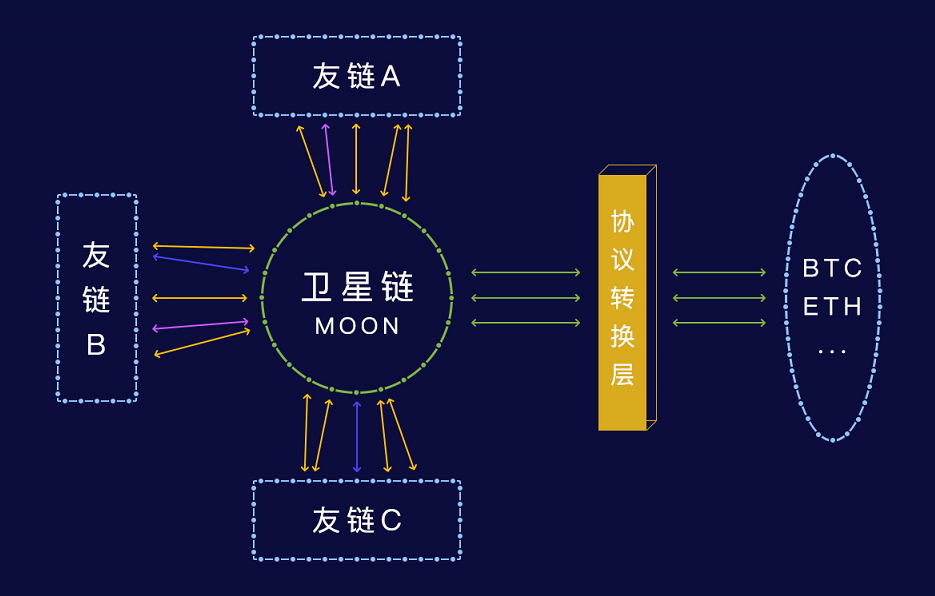
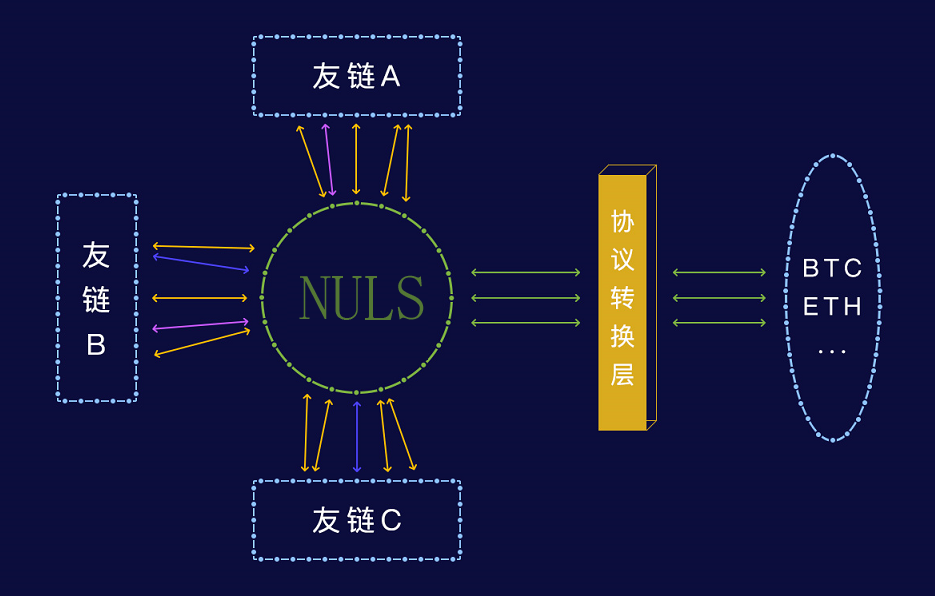
update

Changed region(s): [[0.3102, 0.453, 0.4652, 0.5738]]

diff --git a/design-en/a.Overall design v1.3.md b/design-en/a.Overall design v1.3.md
@@ -11,76 +11,64 @@ One: rich NULS modules
 The new architecture allows NULS modules to run independently, combining a basic blockchain operation framework through a standard base module interface. The NULS module does not limit any developers, supports all programming languages that can provide http services, and strives to get the most out of every blockchain technician without setting any threshold. On this basis, more possibilities are extended.
 
 Second: building a technical community for NULS
-NULS is a pure blockchain project that integrates the idea of blockchain to create a blockchain community of open, freedom, and evolution. Therefore, the vitality of NULS depends on the degree of development of the community, especially the degree of construction of the technical community. Therefore, NULS takes advantage of the new architecture design, simultaneously attaches great importance to and develops the technology community, allowing the technical community and the core development team to “distribute” from the beginning; to attract all regions of the world with open technology and ideal forward-looking. Added in the development of blockchain.
+NULS is a pure blockchain project that combines the idea of blockchain to create an open, free and evolutionary blockchain community. Therefore, the vitality of NULS depends on the degree of development of the community, especially the degree of construction of the technical community. Therefore, NULS takes advantage of the new architecture design, simultaneously attaches great importance to and develops the technology community, allowing the technical community and the core development team to “distribute” from the beginning; to attract all regions of the world with open technology and ideal forward-looking. Added in the development of blockchain.
 
 Based on the above, the NULS core team initiated the design of the new version of the architecture, and hoped that the partners in the community actively participated in the construction of NULS, contributing to the development of the blockchain industry, and contributing a bright future.
 
 ## 2、Design goals
 
 - Define cross-chain standards to enable communication between different blockchains.
-- Build a "satellite chain" to achieve asset flow between different blockchains.
-- Using the microservices architecture, each module is a separate process service, without limiting the development language
+- Upgrade the NULS main network function to achieve asset flow between different blockchains.
+- Using the microservices architecture, each module is a service run by a separate process and does not limit the development language.
 
 Description:
 
 - Why do you want to cross the chain?
-  The blockchain has been introduced by many media as the next generation of the Internet. This argument is very reasonable, but the distance is still very far away, there are a lot of ways to go, and the blockchain has to become a real Internet, and there is also a Passing the pass is the passing of value. At present, there are two solutions: 1. A blockchain completes all applications and user value transfer. 2. A general value transfer protocol between blockchains. The first option seems simple, but it is very limited and difficult to implement. NULS believes that Option 2 is a better solution in the current environment, so in this direction, cross-chain agreements and related supporting facilities are the first step in this direction.
+  The blockchain has been introduced by many media as the next generation of the Internet. This argument is very reasonable, but the distance is still very far away, there is a long way to go, and the blockchain has to become a real Internet, and there is also a Passing the pass is the passing of value. At present, there are two solutions: 1. A blockchain completes all applications and user value transfer. 2. A general value transfer protocol between blockchains. The first option seems simple, but it is very limited and difficult to implement. NULS believes that Option 2 is a better solution in the current environment, so in this direction, cross-chain agreements and related supporting facilities are the first step in this direction.
 - From modular to microservices
   Nuls is a modular underlying infrastructure. The blockchain programs currently running are based on the Java language. Modularization only implements the modularization of the coding layer. Our goal is a more flexible, operational state module. The underlying facilities. It should be able to support anyone who wants to make a technical contribution, so you should not set the language threshold. It should be easier to extend, modify, and replace. Each of its modules should be simple, static, and should not be blocked by the blockchain. The complexity of the overall program impact. So we proposed the micro-service architecture idea, the module is more independent, the module business is more simple, the module supports multi-language development, the module is easier to expand, the module supports distributed deployment, and the module is easier to plug and unplug...
 
-risk:
-
-The blockchain client has higher performance requirements. Each module in the new architecture is an independent process. The process communicates through the http protocol. In the case of no initial network setup, only some simple performance tests can be used. Estimating performance metrics is likely to fail to meet the requirements of a high-performance blockchain application. Solution: Set up a simple network in a short time to test the performance more accurately.
-
-## 3、Overall Description
-
-### 3.1Overall architecture
+## 3、Ecological architecture
 
 ![design](./image/bridge.png)
 
 Description:
 
-An independent satellite chain that is responsible for docking with all chains. Implement inter-chain communication in an open manner
+	Upgrade the NULS main network and add functions to the main network to connect with all the links. Implement inter-chain communication in an open manner
 
-Based on the blockchain implemented by the NULS module warehouse (blockchain in the ecosystem), a cross-chain module can be added by means of module selection, so that the ground layer can communicate with the satellite chain.
+	Based on the blockchain implemented by the NULS module warehouse (blockchain in the ecosystem), a cross-chain module can be added by means of module selection, so that the bottom layer can communicate with NULS.
 
-For the Ethereum and Bitcoin, the public chain that is not affected by NULS needs to implement the conversion of the protocol through a special mechanism, and adapt the public chain protocol and the NULS cross-chain protocol to achieve the purpose of unified protocol communication.
+	For the Ethereum and Bitcoin, the public chain that is not affected by NULS needs to implement the conversion of the protocol through a special mechanism, and adapt the public chain protocol and the NULS cross-chain protocol to achieve the purpose of unified protocol communication.
 
-All blockchains only communicate with the satellite chain, the verification of the transaction is carried out by the satellite chain, and the parallel chains trust the verification results of the satellite chain.
+	All blockchains only communicate with the NULS main network. The verification of the transaction is performed by the NULS main network, and each parallel chain trusts the verification result of the NULS main network.
 
-- Inter-chain connection
-  Each node on the blockchain runs a cross-chain module, each node connecting some of the nodes on the satellite chain. The random algorithm is used to determine which nodes are connected, to ensure the dispersion of node connections as much as possible, and to ensure the security of the network.
-- Multiple algorithm adaptation
-  The satellite chain supports most of the mathematical algorithms on the market, including digest algorithms, symmetric encryption, asymmetric encryption, etc., which can be used through a unified interface provided by the algorithm library.
-- Community governance
-  The satellite chain will have built-in community governance mechanisms, including system operating parameter modifications, protocol upgrades, malicious chain processing, community funding, and more.
+	The assets in each blockchain can be circulated to any chain in the NULS ecosystem to accept the transfer of the external chain assets. It is also possible to achieve business interoperability based on any mutual agreement between any two chains at a small cost.
 
 
-## 4、 Satellite chain design
+## 4、System design
 
-###  4.1 Satellite chain architecture
+###  4.1 Architecture diagram
 
  ![layer](./image/bridge-layer.png)
 
-* The satellite chain uses the POC consensus mechanism to combine the Byzantine fault-tolerant mechanism to confirm and package cross-chain transactions, and to achieve decentralization and performance and security.
-* Each node on the satellite chain connects multiple nodes in multiple blockchains. Because the protocol is a uniformly defined NULS cross-chain protocol, it is possible to connect multiple nodes on different blockchains simultaneously.
-* The satellite chain provides a chain management mechanism to manage all peer-to-peer blockchains registered in the satellite chain. The contents of the registration include chain information, asset information, cross-chain mortgages, etc.
+* NULS main network uses POC consensus mechanism, combined with Byzantine fault tolerance mechanism to realize the confirmation and packaging of cross-chain transactions, to achieve decentralization and performance and security.
+* Each node on the NULS main network connects multiple nodes in multiple blockchains. Because the protocol is a uniformly defined NULS cross-chain protocol, it is possible to connect multiple nodes on different blockchains simultaneously.
+* The NULS main network provides a chain management mechanism to manage all peer blockchains registered on the NULS main network. The contents of the registration include chain information, asset information, cross-chain margin, etc.
 * When an asset of another chain is received on a blockchain, the corresponding asset needs to be generated in the chain. Tokens on different blockchains are stored in other chains in the form of assets.
-* A breakdown of the assets transferred to another chain in a blockchain will be stored in the satellite chain. When the asset is transferred out of the blockchain, it will be verified, and illegal assets will not be allowed to be generated from the blockchain. Malicious blockchains are handled through community mechanisms such as suspending cross-chains, suspending cross-chains, forfeiting margins, etc.
-* The Api user manual will be available in the satellite chain. Any developer can develop their own wallet, browser, light wallet and other tools according to the manual.
-* In order to reduce the business complexity of the satellite chain, smart contracts will not be operated in the satellite chain
-* Provision of protocol provisioning in the satellite chain, which can be used for DAPP development and cross-chain protocol optimization
+* The details of a blockchain transferred to other chain assets will be stored in the NULS main network. When the asset is transferred out of this blockchain, it will be verified, and illegal assets will not be allowed to be generated from the blockchain. Malicious blockchains are handled through community mechanisms such as suspending cross-chains, suspending cross-chains, forfeiting margins, etc.
+* NULS main network will provide Api manual, any developer can develop their own wallet, browser, light wallet and other tools according to the manual.
+* Provides protocol extensions in the NULS main network, which can be used to develop DAPP and optimize cross-chain protocols.
 
-### 4.2 How the satellite chain run
+### 4.2 The operation of the new version of the modular program
 
 ![](./image/modules.png)
 
-* Satellite chain architecture in a modular manner
+* NULS main network is structured in a modular way
 * Each module is a microservice that can run independently
-* Communication between microservices directly via http protocol
+* Microservices communicate directly via api
 * Module does not limit development language
-* Provide microkernel module responsible for service management, configuration management and data sharing
-* The module of the satellite chain will be shared with the NULS main network to a certain extent, so the module of the satellite chain will be added to the NULS module warehouse just like the NULS module for direct use by applications such as "chain factory".
+* Provide microkernel module responsible for module management, configuration management and version management functions
+* NULS modules will be added to the NULS module repository for direct use by applications such as "chain factories"
 * Each module supports extensions at the same time as it is used, ie if the modules in the module repository can only meet some of the business requirements, the module can be extended to avoid the workload of redevelopment
 
 ### 4.3 Bottom support for the chain factory
@@ -96,29 +84,29 @@ The chain factory is built on the NULS module, so when designing the NULS module
 1. The address a in the friend chain A initiates the transaction tx_a, and transfers the aCoin to the b address of the B chain.
 
 - The format of the b address is the address in the nuls format starting with ChainId_B. When the asset is transferred to the address, the address is not allowed to initiate a transaction on the A chain, ie the address of the other chain cannot initiate a transaction in the chain.
-- Generate a transaction for the satellite chain tx_a_trans based on the cross-chain protocol and sign the cross-chain transaction with the private key of a.
+- Generate a transaction tx_a_trans under the NULS cross-chain protocol based on the cross-chain protocol, and sign the cross-chain transaction with a private key of a.
 
-2. tx_a is packed in the A chain, and after the n block is confirmed, the satellite chain is sent by the cross-chain module (independent of the basic module other than the A-chain function).
+2. tx_a is packed in the A chain, and after the n block is confirmed, the NULS main network is sent by the cross-chain module (independent of the basic module except the A-chain function).
 
-3. The cross-chain module broadcasts the transaction to the connected satellite chain node (broadcast mode: first broadcast hash, wait for the other party to obtain a complete transaction)
+3. The cross-chain module broadcasts the transaction to the connected NULS main network node (broadcast mode: first broadcast hash, wait for the other party to obtain a complete transaction)
 
-4. After receiving the transaction (tx_a_trans), the satellite chain node (transaction management module) first performs basic verification (format, required field, signature, chain balance, etc.), and then asks whether the connected A-chain node has a The tx_a_hash transaction is confirmed by n blocks and converted to a satellite chain format transaction, the transaction digest is tx_a_trans_hash.
+4. After receiving the transaction (tx_a_trans), the NULS main network node (transaction management module) first performs basic verification (format, required fields, signature, chain balance, etc.), and then asks whether the connected A-chain node has A tx_a_hash transaction is confirmed n blocks, and after conversion to NULS main network format transaction, the transaction summary is tx_a_trans_hash.
 
-2. The result of the aggregate inquiry of the satellite chain node. If more than 51% of the nodes confirm the transaction, the node approves the transaction.
+5. The result of the NULS main network node summary inquiry, if more than 51% of the nodes confirm the transaction, the node approves the transaction.
 
 - The normal node asks for any node, the consensus node queries all nodes, and the ordinary node forwards the transaction if any 3 nodes confirm it, otherwise it discards. If the consensus node gets more than 51% node confirmation, it will sign tx_a_trans_hash and broadcast the hash and signature data to the network.
 
-6. The satellite chain consensus node summarizes the cross-chain transaction signatures in the chain. When the signer of a transaction exceeds 80% of the total number of consensus nodes, the transaction is considered to be packaged into the block.
+6. The NULS main network consensus node summarizes the cross-chain transaction signatures in the chain. When the signer of a transaction exceeds 80% of the total number of consensus nodes, the transaction is considered to be packaged into the block.
 
 - This function is provided by the "Transaction Management" module. When 80% signature collection is completed, the transaction is pushed to the consensus module for packaging.
 
-7. The consensus module of the satellite chain consensus node, when packing, verifies the number of signatures and the balance of the assets of the outbound chain. If the requirements are met, the transaction is packaged into the block.
+7. The consensus module of the NULS main network consensus node, when packing, verifies the number of signatures and the balance of the assets of the roll-out chain. If the requirements are met, the transaction is packaged into the block.
 
 8. Block confirmation logic: When verifying the cross-chain transaction included in the block, verify the number of signatures and the balance of the assets of the transfer chain, and confirm the transaction if it meets the requirements.
 
 9. When the block where the transaction is located is confirmed, the "transaction management module" pushes the transaction (tx_a_trans) to the target chain node.
 
-10. After receiving the transaction, the cross-chain module of the target chain queries the connected satellite chain node whether the transaction exists and has been confirmed. If more than 51% of the nodes confirm the transaction, the node recognizes the transaction.
+10. After receiving the transaction, the cross-chain module of the target chain queries the connected NULS main network node whether the transaction exists and has been confirmed. If more than 51% of the nodes confirm the transaction, the node recognizes the transaction.
 
 11. After the node recognizes the transaction, the cross-chain module converts tx_a_trans into a B-chain asset transaction and broadcasts
 
@@ -146,8 +134,11 @@ The chain factory is built on the NULS module, so when designing the NULS module
 5. the broadcast block head
 
 6. Add the block to the verification queue of the "block management" module.
+
 7. The verification thread takes the block out and verifies it.
+
 8. After verification, confirm each transaction in turn
+
 9. storage transactions and block headers
 
 10. completed
